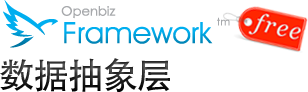
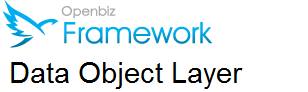
translate framework do and view pages

Changed region(s): [[0.0, 0.6304, 0.789, 1.0], [0.7013, 0.0652, 1.0, 0.5652]]

diff --git a/docs/openbiz.en/developer/framework/presentation-layer.php b/docs/openbiz.en/developer/framework/presentation-layer.php
@@ -3,7 +3,7 @@
 <html xmlns="http://www.w3.org/1999/xhtml">
 <head>
 <meta http-equiv="Content-Type" content="text/html; charset=UTF-8" />
-<title>图形表现层 － Openbiz Framework － <?php echo SITE_NAME;?></title>
+<title>Presentation Layer - Openbiz Framework - <?php echo SITE_NAME;?></title>
 <link rel="icon" href="favicon.ico" type="image/x-icon" />
 <link rel="shortcut icon" href="favicon.ico" type="image/x-icon" /> 
 <link href="../../general/style/general.css" rel="stylesheet" type="text/css" />
@@ -52,13 +52,13 @@ $(document).ready(function(){
 			<div id="framework-banner" class="banner" >
 				<div class="desc">
 					<h1 style="height:auto; padding-top:45px;"><a href="../framework.php"><img src="image/presentationlayer/banner-title.png" title="Openbiz Framework"/></a></h1>
-					<h2>处理视图与表单对象的底层关联</h2>
+					<h2>Page and Form upon Data Object</h2>
 					<p style="padding-bottom:12px;padding-top:4px;">
-						丰富的图形表现形势<br/>
-						轻松满足企业应用中的各种需求
+						Wide collection of UI elements<br/>
+						to meet all requests in your applications
 					</p>									
 						<p style="width:100px;padding-top:15px;">
-							<a class="blue-button-go" href="#" >免费获取</a>
+							<a class="blue-button-go" href="#" >Download</a>
 						</p>
 				</div>
 			</div>
@@ -68,19 +68,16 @@ $(document).ready(function(){
 	<div class="content">
 		<div class="page-splitter"></div>	
 		<div>
-			<h2>图形表现层介绍</h2>
+			<h2>Presentation Layer Overview</h2>
 			<p>
-				Openbiz的图形表现层主要分为 视图对象 表单对象 和 表单控件对象。<br/>
-				其主要表现逻辑封装于 Openbiz Cubi 应用平台中，作为框架底层在 Openbiz Framework中负责处理这些对象之间的调用关系，而不负责对其样式和外观进行风格化。<br/> 
-				例如在父子表单联动的案例中，Openbiz负责的部分是当父表单触发了 SelectRecord方法后自动刷新与其关联的子表单。但这两个表单具体外观是什么样子是由Smarty模板定义的。在Openbiz Cubi中为开发人员提供了支持全部特性的模板。
+				Openbiz Data Object (DO) plays a data unit, and Openbiz Form plays as corresponding presentation unit. Each Form declares a DO name and mapping between DO Fields to Form Elements. Openbiz View plays as a presentation container of Forms. In web technology, View is same as a web page and Form is a logic block within a page.
 			</p>			
 		</div>		
 		<div class="page-splitter"></div>
 		<div class="" style="padding-top: 10px;padding-bottom:10px;">
-			<h2>视图对象</h2>
+			<h2>View</h2>
 			<p>
-				Openbiz的视图对象相当于整个页面，它负责定义该页面如何装载表单、菜单和其他小部件。
-				以及适应在各种设备上显示页面。在MVC结构中它与表单对象的实现类文件共同作为控制器(Controller)。
+				Openbiz View is same as a web page. A View is a container of Forms and Elements. It's layout is defined in its template file. A typical view layout contains header, footer, content area and navigation menus.
 			</p>
 			<img class="image-border" src="image/presentationlayer/pic-vo-1.png"></img>
 			<img class="image-border" src="image/presentationlayer/pic-vo-2.png" style="margin:0px 10px 0px 10px;"></img>
@@ -88,115 +85,114 @@ $(document).ready(function(){
 		</div>
 		<div class="page-splitter"></div>
 		<div class="" style="padding-top: 10px;padding-bottom:10px;">
-			<h2>表单对象</h2>
+			<h2>Form</h2>
 			<p>
-				Openbiz 表单对象是系统的主要数据逻辑部分，它负责数据的展示逻辑，通常每个表单对象都会绑定一个数据对象。<br/>
-				常见的表单对象有 列表、详情、编辑、新建、复制几种类型，表单对象可以被潜入在视图中也可以作为内嵌或弹出窗口（层）来使用。
+				Openbiz Form presents the data of Data Object to web pages. Usually a Form links with Data Object. It defines how data displayed to users.</p>
+			<p>
+				In most data-driven applications, data is presented in different form types including List form, Detail form, Edit form, New form and Copy form. A Form can be in a View or in a popup dialog.
 			</p>
 			<img class="image-border" src="image/presentationlayer/pic-fo-1.png"></img>
 			<img class="image-border" src="image/presentationlayer/pic-fo-2.png" style="margin:0px 10px 0px 10px;"></img>
 			<img class="image-border" src="image/presentationlayer/pic-fo-3.png"></img>
 		</div>
 		<div class="page-splitter"></div>
-		<h2>表单控件对象 - Elements</h2>
-		<p>
-				Openbiz 的表单控件对象是用于在表单对象中绑定数据对象字段使用的。通常每个表单控件会映射到该表单对象所绑定的数据对象的某个列上。
-				不同的表单控件提供了不同的数据展示或输入逻辑，除了标准的Web表单控件（文本框、单选菜单、多选菜单、复选框）外，
-				Openbiz Framework 还提供了高级控件的支持，例如：条码扫瞄控件、智能卡读卡控件、颜色选择控件、富文本编辑控件等。
-				表单控件通常还可以触发事件，事件的定义与HTML控件事件相似，事件行为可以是触发服务器端的对象自定义方法、在表单之间或者客户端Javascript代码 
+		<h2>Elements</h2>
+			<p>
+				Openbiz Form Element is a smallest display unit (such as a inputbox) or a group of display units (such as rich text editor). An Element can bind a Field defined in Form's Data Object. Different Elements provide different display and input logic. Beyond standard HTML elements (input, list, checkbox, radio, password,...), Openbiz framework brings you many advanced elements. For example, card scanner, calendar picker, color picker, rich text editor, and so on.
+			</p>
+		<p>	Developers can set event handler on each Element. These events are same as HTML events. The handlers is either a javascript function call or AJAX call to form method. 
 		</p>
-		<h2>Openbiz的高级表单控件展示</h2>
+		<h2>Openbiz Avdanced Element Samples</h2>
 		<table class="present-features screenshots" cellspacing="0" style="padding-top:10px;">
 		<tr>
 			<td style="width:85px;">
-				<a rel="screenshots" href="image/presentationlayer/pic-card.png" title="Openbiz Framework - 智能卡读卡器控件截面">
+				<a rel="screenshots" href="image/presentationlayer/pic-card.png" title="Openbiz Framework - Card Reader">
 				<img src="image/presentationlayer/pic-card-small.png" />
 				</a>
 			</td>
 			<td  style="width:330px;">
-				<h4>智能卡读卡器控件</h4>
-				<p>该控件直接支持键盘口的智能卡读卡器设备，可以捕获设备在浏览器窗口防围内传入的任何自负序列，常用于开发智能卡应用系统使用。例如会员卡管理系统。</p>
+				<h4>Card Reader</h4>
+				<p>Card reader can read a card number as typed from keyboard. It can be used in use login with card.</p>
 			</td>
 			<td  style="width:85px;">
-				<a rel="screenshots" href="image/presentationlayer/pic-on-off.png" title="Openbiz Framework - 开关按钮截面">
+				<a rel="screenshots" href="image/presentationlayer/pic-on-off.png" title="Openbiz Framework - OnOff button">
 				<img src="image/presentationlayer/pic-on-off-small.png" />
 				</a>
 			</td>
 			<td>
-				<h4>开关按钮</h4>
-				<p>可以通过直观的开关方式更有好的展示布尔形数据字段</p>
+				<h4>On and Off Button</h4>
+				<p>It provide easy way for user to change boolean data</p>
 			</td>
 		</tr>			
 		<tr>
 			<td>
-				<a rel="screenshots" href="image/presentationlayer/pic-scanner.png" title="Openbiz Framework - 条码扫描枪截面">
+				<a rel="screenshots" href="image/presentationlayer/pic-scanner.png" title="Openbiz Framework - Scanner">
 				<img src="image/presentationlayer/pic-scanner-small.png" />
 				</a>
 			</td>
 			<td>
-				<h4>条码扫描枪</h4>
-				<p>该控件可以直接读取键盘口的条码扫描枪，可以捕获设备在浏览器窗口防围内传入的任何自负序列，
-				常用于开发条码应用系统使用，例如产品库存管理等</p>
+				<h4>Scanner Gun</h4>
+				<p>This element can be used to read barcode in applications that manages assets.</p>
 			</td>
 			<td>
-				<a rel="screenshots" href="image/presentationlayer/pic-sort.png" title="Openbiz Framework - 表格数据排序截面">
+				<a rel="screenshots" href="image/presentationlayer/pic-sort.png" title="Openbiz Framework - Column sort">
 				<img src="image/presentationlayer/pic-sort-small.png" />
 				</a>
 			</td>
 			<td>
-				<h4>表格数据排序</h4>
-				<p>常用于列表表单，可以让用户对表单数据的排序权重进行快捷调整。</p>
+				<h4>Column Sorter</h4>
+				<p>Column Sorter provides a simple way to change the order of a record in list form</p>
 			</td>
 		</tr>		
 		<tr>
 			<td>
-				<a rel="screenshots" href="image/presentationlayer/pic-color.png" title="Openbiz Framework - 颜色选择控件截面">
+				<a rel="screenshots" href="image/presentationlayer/pic-color.png" title="Openbiz Framework - Color Picker">
 				<img src="image/presentationlayer/pic-color-small.png" />
 				</a>
 			</td>
 			<td>
-				<h4>颜色选择控件</h4>
-				<p>框架集成了jQuery ColorPicker控件，可以让用户更加直观的进行颜色选择，该特性在Openbiz的商业产品的按类型定义颜色特性中有大量使用。</p>
+				<h4>Color Picker</h4>
+				<p>Color Picker is based on jQuery color picker plugin.</p>
 			</td>
 			<td>
-				<a rel="screenshots" href="image/presentationlayer/pic-search.png" title="Openbiz Framework - 自动提示文本框截面">
+				<a rel="screenshots" href="image/presentationlayer/pic-search.png" title="Openbiz Framework - Auto Suggestion">
 				<img src="image/presentationlayer/pic-search-small.png" />
 				</a>
 			</td>
 			<td>
-				<h4>自动提示文本框</h4>
-				<p>常用于列表表单，可以根据用户已经输入的部分文字自动匹配相关选项</p>
+				<h4>Auto Suggestion</h4>
+				<p>It is used in many places like search input, contact picker, ...</p>
 			</td>
 		</tr>
 		<tr>
 			<td>
-				<a rel="screenshots" href="image/presentationlayer/pic-list.png" title="Openbiz Framework - 带图标的下拉菜单截面">
+				<a rel="screenshots" href="image/presentationlayer/pic-list.png" title="Openbiz Framework - Dropdown list with icon">
 				<img src="image/presentationlayer/pic-list-small.png" />
 				</a>
 			</td>
 			<td>
-				<h4>带图标的下拉菜单</h4>
-				<p>比浏览器自带的下拉菜单更加精美的下拉菜单方式，允许开发人员在每个选项上增加图标样式。</p>
+				<h4>Dropdown list with icon</h4>
+				<p>The dropdown list can display list of values with icons</p>
 			</td>
 			<td>
-				<a rel="screenshots" href="image/presentationlayer/pic-bar.png" title="Openbiz Framework - 进度条控件截面">
+				<a rel="screenshots" href="image/presentationlayer/pic-bar.png" title="Openbiz Framework - Progress bar">
 				<img src="image/presentationlayer/pic-bar-small.png" />
 				</a>
 			</td>
 			<td>
-				<h4>进度条控件</h4>
-				<p>常用于列表表单，可以直观的展现某项数据的进度，用于绑定整数型字段</p>
+				<h4>Progress bar</h4>
+				<p>The progress bar is usually to display progress of a task, project...</p>
 			</td>
 		</tr>
 		<tr>
 			<td>
-				<a rel="screenshots" href="image/presentationlayer/pic-text.png" title="Openbiz Framework - 富文本编辑控件截面">
+				<a rel="screenshots" href="image/presentationlayer/pic-text.png" title="Openbiz Framework - Rich Text Editor">
 				<img src="image/presentationlayer/pic-text-small.png" />
 				</a>
 			</td>
 			<td>
-				<h4>富文本编辑控件</h4>
-				<p>框架友好的集成了CKEditor的富文本编辑器，可以让用户通过直观既得的方式编辑HTML代码或文档。</p>
+				<h4>Rich Text Editor</h4>
+				<p>A CKEditor based rich text editor enable intuitive text editing</p>
 			</td>
 		</tr>				
 		</table>			
@@ -206,11 +202,10 @@ $(document).ready(function(){
 		<div class="bottom-info-block">
 			<table>
 				<tr>
-					<td><a class="blue-button-go" href="#" >免费获取</a></td>
+					<td><a class="blue-button-go" href="#" >Download</a></td>
 					<td>
 						<p>
-							Openbiz Framework图形表现层，处理视图与表单对象的底层关联，满足企业中的各种需求。<br/>
-							赶快下载Openbiz Framework感受企业应用系统的动力之源。
+							Download Openbiz Framework today to feel the fine touch of stylish UI 
 						</p>
 					</td>
 				</tr>

diff --git a/docs/openbiz.en/developer/framework/data-abstract-layer.php b/docs/openbiz.en/developer/framework/data-abstract-layer.php
@@ -37,13 +37,13 @@
 			<div id="framework-banner" class="banner" >
 				<div class="desc">
 					<h1 style="height:auto; padding-top:45px;"><a href="../framework.php"><img src="image/dalayer/banner-title.png" title="Openbiz Framework"/></a></h1>
-					<h2>处理数据底层映射逻辑关系</h2>
+					<h2>Handle data business logic</h2>
 					<p style="padding-bottom:12px;padding-top:4px;">
-						通过元数据的方式描述数据表<br/>
-						到对象的关系映射
+						Map database table to object<br/>
+						with XML metadata
 					</p>									
 						<p style="width:100px;padding-top:15px;">
-							<a class="blue-button-go" href="#" >免费获取</a>
+							<a class="blue-button-go" href="#" >Download</a>
 						</p>
 				</div>
 			</div>
@@ -53,94 +53,57 @@
 	<div class="content">
 		<div class="page-splitter"></div>	
 		<div>
-			<h2>数据抽象层</h2>
+			<h2>Data Abstraction</h2>
 			<p>
-				Openbiz 数据对象可以通过Zend_DB来连接各种类型的关系型数据库，Zend_DB为Openbiz底层提供了在PDO和本地数据库客户端工具之上的数据抽象层。
-				开发人员可以使用Openbiz数据对象API来实现大部分的数据库操作，或直接调用Zend_DB API来完成高级功能。
-				如果需要连接不同类型的数据库，用户只需要在应用程序根目录的application.xml中指定数据库连接即可。
-				Openbiz 数据对象将调用正确的数据库驱动程序去连接数据库服务器。Openbiz当前支持的数据库类型有MySQL, MSSQL, Oracle, PostgreSQL, SQLlite 等。
-				每个Openbiz数据对象可以有它自己的数据库引用。此功能可以帮助您实现在一个应用程序中同时连接多个数据库。甚至在同一张网页上也可以连接多个数据源。
+				Openbiz DO can connect to all types of relational database supported by Zend_DB who provides the database abstraction layer on top of PDO and native database client. Developer can use Openbiz DO API for most database operations as well as Zend_DB API for advanced functions.
+			</p>
+			<p>
+To connect to different types of database, user just needs to specify the database connection in Config.xml under your application root folder. Openbiz DO will invoke the correct drivers to connect database server. Openbiz is currently support MySQL, MSSQL, Oracle, PgSQL, Sqlite and etc.
+</p>
+<p>
+Each Openbiz DO can have its own Database reference. This features enable the multiple databases connections in one application or even in one web page.
 			</p>			
 		</div>		
 		<div class="page-splitter"></div>
 		<div class="dalayer-list" style="padding-top: 10px;padding-bottom:10px;">
-			<h2>对象关系映射</h2>
+			<h2>ORM (Object-Relational-Mapping)</h2>
 			<p>
-				Openbiz 实现了必要的“对象关系映射”功能，允许将数据库中的数据和关系映射的数据对象上。Openbiz的数据对象的核心类称为“BizDataObj”。该类的元数据定义了数据表和对象的映射。它能够通过其元数据来生成相应的SQL，实现了查询、保存、删除、读取对象的功能。
-				以下列表是Openbiz对象关系映射所实现的功能。
+				Openbiz implements necessary object/relational mapping (ORM) features to allow DO representing the data and relationships of database tables. Openbiz's Data layer core class is called "BizDataObj". This class defines the mapping between database tables and objects. The class can generate SQL from its metadata to conduct CRUD on database tables. The following table list the features of Openbiz ORM.
 			</p>
-			<h4>灵活的映射</h4>
+			<h4>Flexible mapping</h4>
 			<ul class="three-se">				
-			     <li>支持数据表与对象映射，如：单数据表和一个对象，多数据表和一个对象的映射方式。</li>
-			     <li>支持关系映射，多对一，一对多，多对多，一对一、自我相关引用模式。</li>			
+			     <li>Support table to object mapping. Table-per-class, N tables to 1 class</li>
+			     <li>Support relationship mapping. Many to one, one to many, many to many, one to one</li>			
 			</ul>
-			<h4>查询工具</h4>
+			<h4>Query facilities</h4>
 			<ul class="three-se">
-			     <li>支持类 SQL 查询语言</li>
-			     <li>支持 SQL 函数和操作符</li>
-			     <li>支持 SQL 统计功能</li>
-			     <li>支持 group by, having 和 order by</li>
+			     <li>Support SQL like query language</li>
+			     <li>Support SQL functions and operators</li>
+			     <li>Support SQL aggregate functions</li>
+			     <li>Support group by, having and order by</li>
      		</ul>
-			<h4>元数据工具</h4>
+			<h4>Metadata facilities</h4>
 			<ul class="three-se">
-		     	<li>Openbiz用BizDataObj的元数据（XML）来描述映射关系。</li>
+		     	<li>Openbiz uses XML metadata describe the mapping</li>
 		    </ul>
-			<h4>对持久类对象进行CRUD操作的API</h4>
-			<ul class="three-se">
-		     	<li>Openbiz的BizDataObj类提供了丰富的数据查询、保存、删除、读取的API。</li>
-			</ul>
 		</div>
 		<div class="page-splitter"></div>
-		<h2>数据对象API</h2>
+		<h2>Data Object API</h2>
 			<p>
-				Openbiz数据对象为增删读改(CURD)操作提供了直观的高级API。
-				为了帮助开发人员避免直接编写复杂的SQL语句，Openbiz建议使用Openbiz支持的查询语言。
-				更多详情 ＝》 
+				Openbiz DO provides intuitive high level API for CURD operations. In order to assist developers to avoid hand coding SQL statements, Openbiz suggests using its Query Language. Please find more details in Data Object API from
 			</p>
-			<a href="http://docs.openbiz.cn/cn/openbiz-book/openbizdo" target="_blank" style="padding-bottom:20px;display:block;">http://docs.openbiz.cn/cn/openbiz-book/openbizdo</a>			
+			<a href="http://code.google.com/p/openbiz-cubi/wiki/OpenbizFrameworkDataObject" target="_blank" style="padding-bottom:20px;display:block;">http://code.google.com/p/openbiz-cubi/wiki/OpenbizFrameworkDataObject</a>			
 		<div class="page-splitter"></div>
-		<div style="padding-bottom: 20px;">
-			<h2>数据字段默认值</h2>
-			<p>
-				有时人们希望在创建或更新的时候自动设置某些列的值，例如，当一个记录被创建时，
-				我们系统设置当前的时间给”create_time”列，同样当这条记录被更新时，
-				我们也希望设置当前的系统时间给”update_time”列。Openbiz的数据对象的字段元数据表属性将会帮您解决此类问题。 
-				* ValueOnCreate 可以在记录被创建时提供默认值 * ValueOnUpdate 可以在记录被更新时提供默认值
-			</p>			
-		</div>
-		<div class="page-splitter"></div>
-		<h2>数据对象触发器(DO Trigger)</h2>
-		<p>
-			当数据对象执行创建、更新、删除操作的时候，Openbiz数据对象触发器服务将提供一个“钩子”来触发自定义的行为。
-			一旦触发器在数据对象的元数据中被定义，它将在数据对象的行为成功完成后被立即执行。
-			数据对象触发器有两部分组成，触发事件和被触发的行为。这些信息都在触发器服务的元数据文件中被定义。
-			当用户通过数据对象来创建、更新、删除一条记录时，Openbiz将在同一目录下查找以这个数据对象名为前缀数据对象触发器定义文件，
-			即 DOName_trigger.xml 。例如EventDO的触发器元数据文件就是在同一个目录下的文件 EventDO_trigger.xml。    
-		</p>
-		<div class="page-splitter"></div>
-		<div class="dalayer-list" style="padding-top: 10px;padding-bottom:10px;">
-			<h2>数据有效性校验</h2>
-			<p>
-				数据有效性校验可以在数据对象的元数据中被设定。它主要用于检测当数据记录被创建或更新时所输入的数据。
-				针对数据对象字段的有效性校验包括了 
-			</p>
-			<ul class="three-se">				
-			     <li>唯一性校验</li>
-			     <li>必要性校验</li>
-			     <li>校验表达式</li>			
-			</ul>
-			<p>如果校验失败，数据对象将会抛出一个异常给它的调用者。 </p>
-		</div>
+
 		<!-- 页面底部的购买区域 开始 -->
 		<div class="page-splitter"></div>
 		<div class="bottom-info-block">
 			<table>
 				<tr>
-					<td><a class="blue-button-go" href="#" >免费获取</a></td>
+					<td><a class="blue-button-go" href="#" >Download</a></td>
 					<td>
 						<p>
-							Openbiz Framework数据抽象层，通过元数据的方式描述数据表到对象的关系映射。<br/>
-							赶快下载Openbiz Framework感受企业应用系统的动力之源。
+							Download Openbiz Framework today to create your business logic in Data Objects.
 						</p>
 					</td>
 				</tr>
